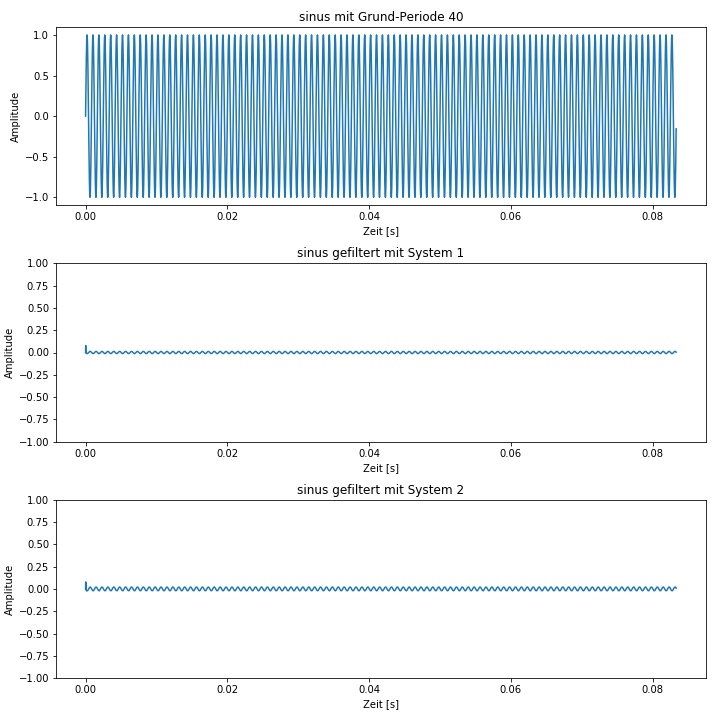
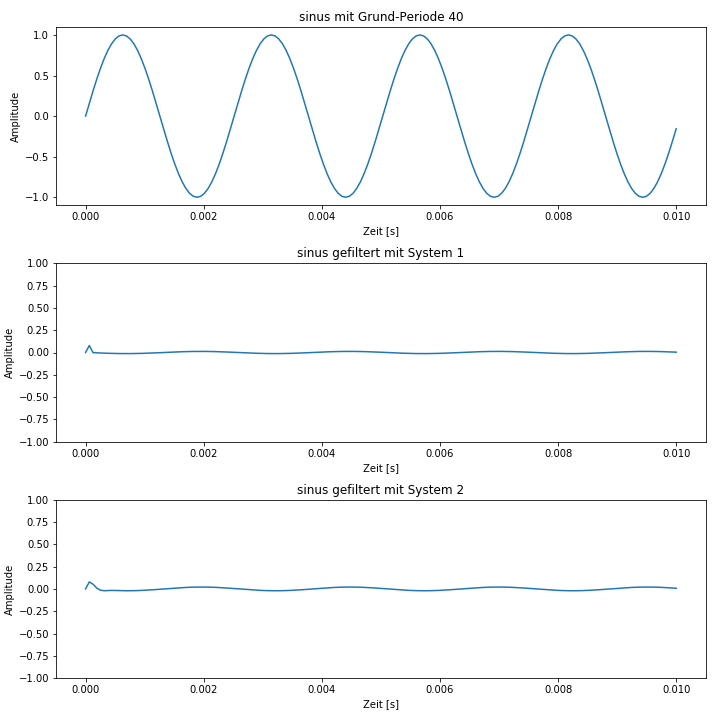
stuu

diff --git a/aufgabe_2_filter_signals.py b/aufgabe_2_filter_signals.py
@@ -148,7 +148,7 @@ amplitude = 1
 sr = 16000
 grundperiode = 40
 #signallaenge in sekunden fuer 4 perioden
-signallaenge = (100*grundperiode)/sr
+signallaenge = (4*grundperiode)/sr
 
 signale_zeit = np.linspace(0,signallaenge, num=signallaenge*sr)
 
@@ -288,27 +288,27 @@ rechteck_gefiltert_system2 = scipy.signal.lfilter(b2,a2,rechteck)
 
 #play audio one after the other
 #uncomment to play the audio
-#sd.play(sinus, sr)
-#sd.wait()
-#sd.play(sinus_gefiltert_system1, sr)
-#sd.wait()
-#sd.play(sinus_gefiltert_system2, sr)
-#sd.wait()
-#sd.play(dreieck, sr)
-#sd.wait()
-#sd.play(dreieck_gefiltert_system1, sr)
-#sd.wait()
-#sd.play(dreieck_gefiltert_system2, sr)
-#sd.wait()
-#sd.play(saegezahn, sr)
-#sd.wait()
-#sd.play(saegezahn_gefiltert_system1, sr)
-#sd.wait()
-#sd.play(saegezahn_gefiltert_system2, sr)
-#sd.wait()
-#sd.play(rechteck, sr)
-#sd.wait()
-#sd.play(rechteck_gefiltert_system1, sr)
-#sd.wait()
-#sd.play(rechteck_gefiltert_system2, sr)
-#sd.wait()
+sd.play(sinus, sr)
+sd.wait()
+sd.play(sinus_gefiltert_system1, sr)
+sd.wait()
+sd.play(sinus_gefiltert_system2, sr)
+sd.wait()
+sd.play(dreieck, sr)
+sd.wait()
+sd.play(dreieck_gefiltert_system1, sr)
+sd.wait()
+sd.play(dreieck_gefiltert_system2, sr)
+sd.wait()
+sd.play(saegezahn, sr)
+sd.wait()
+sd.play(saegezahn_gefiltert_system1, sr)
+sd.wait()
+sd.play(saegezahn_gefiltert_system2, sr)
+sd.wait()
+sd.play(rechteck, sr)
+sd.wait()
+sd.play(rechteck_gefiltert_system1, sr)
+sd.wait()
+sd.play(rechteck_gefiltert_system2, sr)
+sd.wait()
